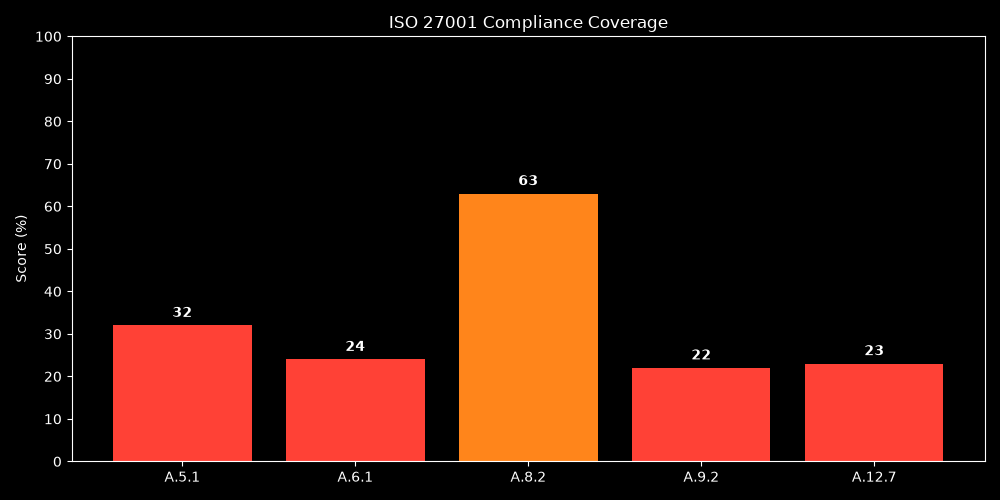
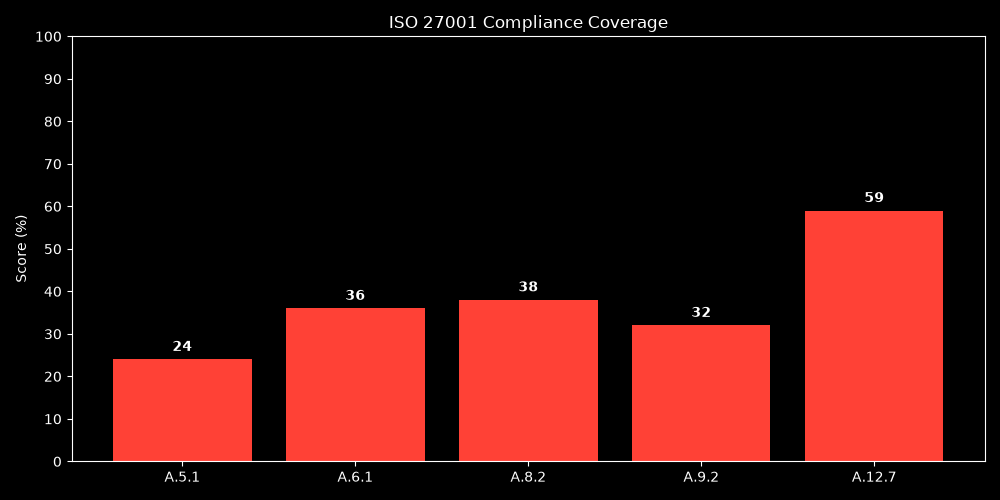
Automated dashboard update

Changed region(s): [[0.093, 0.36, 0.775, 0.93], [0.806, 0.39, 0.961, 0.75]]

diff --git a/README.md b/README.md
@@ -84,16 +84,16 @@ The **Zero Trust Dashboard** provides an automated, real-time view of an organiz
 ### 🗂 Metrics Table
 | Control | Domain | Score (%) |
 |---------|--------|-----------|
-| A.12.7 | Technical Vulnerability Management | 23 |
-| A.5.1 | InfoSec Policies | 32 |
-| A.6.1 | Org InfoSec | 24 |
-| A.8.2 | Risk Management | 63 |
-| A.9.2 | Access Control | 22 |
-| Application | Application | 24 |
-| Data | Data | 70 |
-| Device | Device | 37 |
-| Identity | Identity | 43 |
-| Network | Network | 11 |
+| A.12.7 | Technical Vulnerability Management | 59 |
+| A.5.1 | InfoSec Policies | 24 |
+| A.6.1 | Org InfoSec | 36 |
+| A.8.2 | Risk Management | 38 |
+| A.9.2 | Access Control | 32 |
+| Application | Application | 37 |
+| Data | Data | 22 |
+| Device | Device | 56 |
+| Identity | Identity | 85 |
+| Network | Network | 8 |
 
 ## 🚦 Color Codes
 